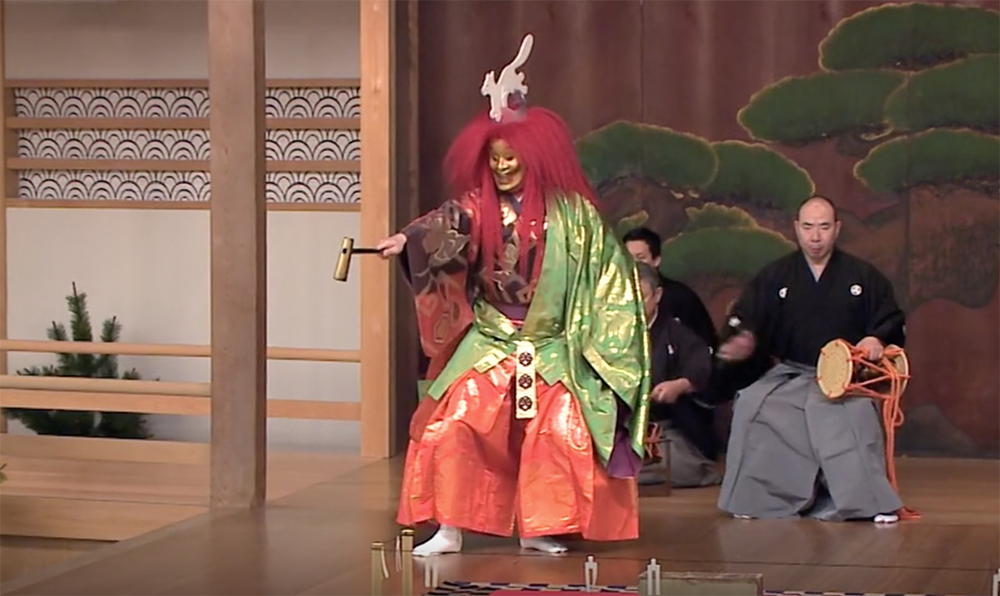
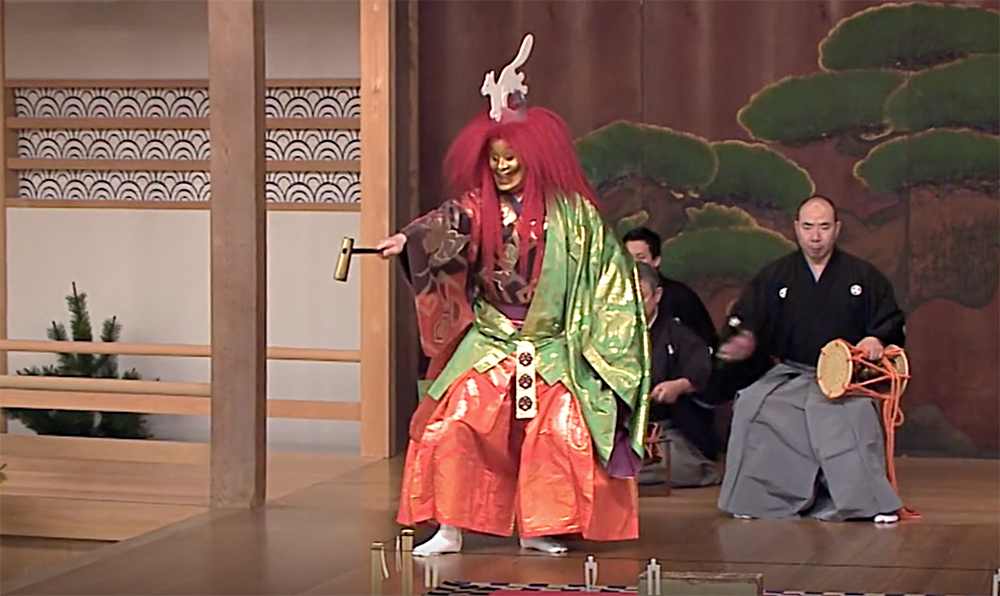
update costumes

diff --git a/src/_staging/costumes.md b/src/_staging/costumes.md
@@ -132,24 +132,24 @@ Nō costumes can be divided into four basic categories: (1) <em>kosode</em> “
 
     <p>Some of the costumes seen in Hashitomi and Kokaji are used for several roles, but draped differently. For instance, the <em>chōken</em> falls freely when draped on a woman who dances (Hashitomi act II). The cords are tied in a large bow knot over the chest. On the other hand, the <em>chōken</em> is belted when draped on a man, as for the costume of the waki in the second act (Kokaji act II). The cords run vertically and are securely knotted to the waist sash. </p>
 
-    {% include image-no-background.html src="/assets/images/tbdb.png" %}
+    {% include image-no-background.html src="/assets/images/Choken-compare.png" %}
 
     <p>The <em>mizugoromo</em> is worn over a <em>kosode</em> for the waki monk in Hashitomi and by the shite in act I of Kokaji, though the type of <em>kosode</em> differs, as do the hair and hat, creating different impressions overall. For the kyōgen in Kokaji, however, the <em>mizugoromo</em> is draped over the pantaloon-like <em>kukuri-bakama</em>.</p>
 
 
-    {% include image-no-background.html src="/assets/images/btd.png" %}
+    {% include image-no-background.html src="/assets/images/Mizugoromo-compare.png" %}
 
     <p>Brocaded <em>kosode</em> come in two forms: <em>karaori</em> and <em>atsuita</em>. While the karaori can be worn either as an outer (i.e. the shite in act I of Hashitomi) or an inner garment under a broad-sleeved garment, the <em>atsuita</em> is generally an undergarment worn by male characters under various types of broad-sleeved over garments. When one of the sleeves of the over garment is slipped off, the <em>atsuita</em> pattern is exposed more fully. The waki in Kokaji act II removes the right sleeve of the <em>chōken</em> in preparation for working on the sword. </p>
 
-    {% include image-no-background.html src="/assets/images/dbt.png" %}
+    {% include image-no-background.html src="/assets/images/Karaori-compare.png" %}
 
     <p>The shite, likewise, has prepared for work by slipping off the right sleeve of his <em>happi</em> ourter garment. </p>
 
-    {% include image-no-background.html src="/assets/images/dbt.png" %}
+    {% include image-no-background.html src="/assets/images/Kokaji-Shite2.png" %}
 
-    <p>The broad sleeves of the <em>ōsode</em> outer garments provide for dynamic stage effect. During the <em>jō-no-mai</em>  dance (Hashitomi act II), the sleeves of the <em>chōken</em> are flipped over the arm and also up over the head, half veiling the face. In Kokaji act II, the Fox deity twirls and flips his sleeves to intensify given moments. </p>
+    <p>The broad sleeves of the <em>ōsode</em> outer garments provide for dynamic stage effect. During the <em>jō-no-mai</em>  dance (Hashitomi act II), the sleeves of the <em>chōken</em> are flipped over the arms to intensify given moments. In Kokaji act II, the Fox deity flips his sleeves also up over the head, half veiling the face. </p>
 
-    {% include image-no-background.html src="/assets/images/dbt.png" %}
+    {% include image-no-background.html src="/assets/images/Osode-compare.png" %}
 
 
 <p><em>Contributor: Monica Bethe</em></p>

diff --git a/src/_music/voices.md b/src/_music/voices.md
@@ -222,7 +222,7 @@ fourth-level-menu-active: voices
         <p><strong>INCLUDE THE APPROPRIATE IMAGE</strong></p>
 
         {% include video-no-background.html
-          src="http://d7rcwrflqckpu.cloudfront.net/Academic_sl/Hashitomi-Ageuta1_Demonstration.mp4"
+          src="http://d7rcwrflqckpu.cloudfront.net/Academic_sl/Hashitomi-Ageuta1_Utai.mp4"
           link="Hiranori styles in context"
           title="Hashitomi/Ageuta 1"
         %}
